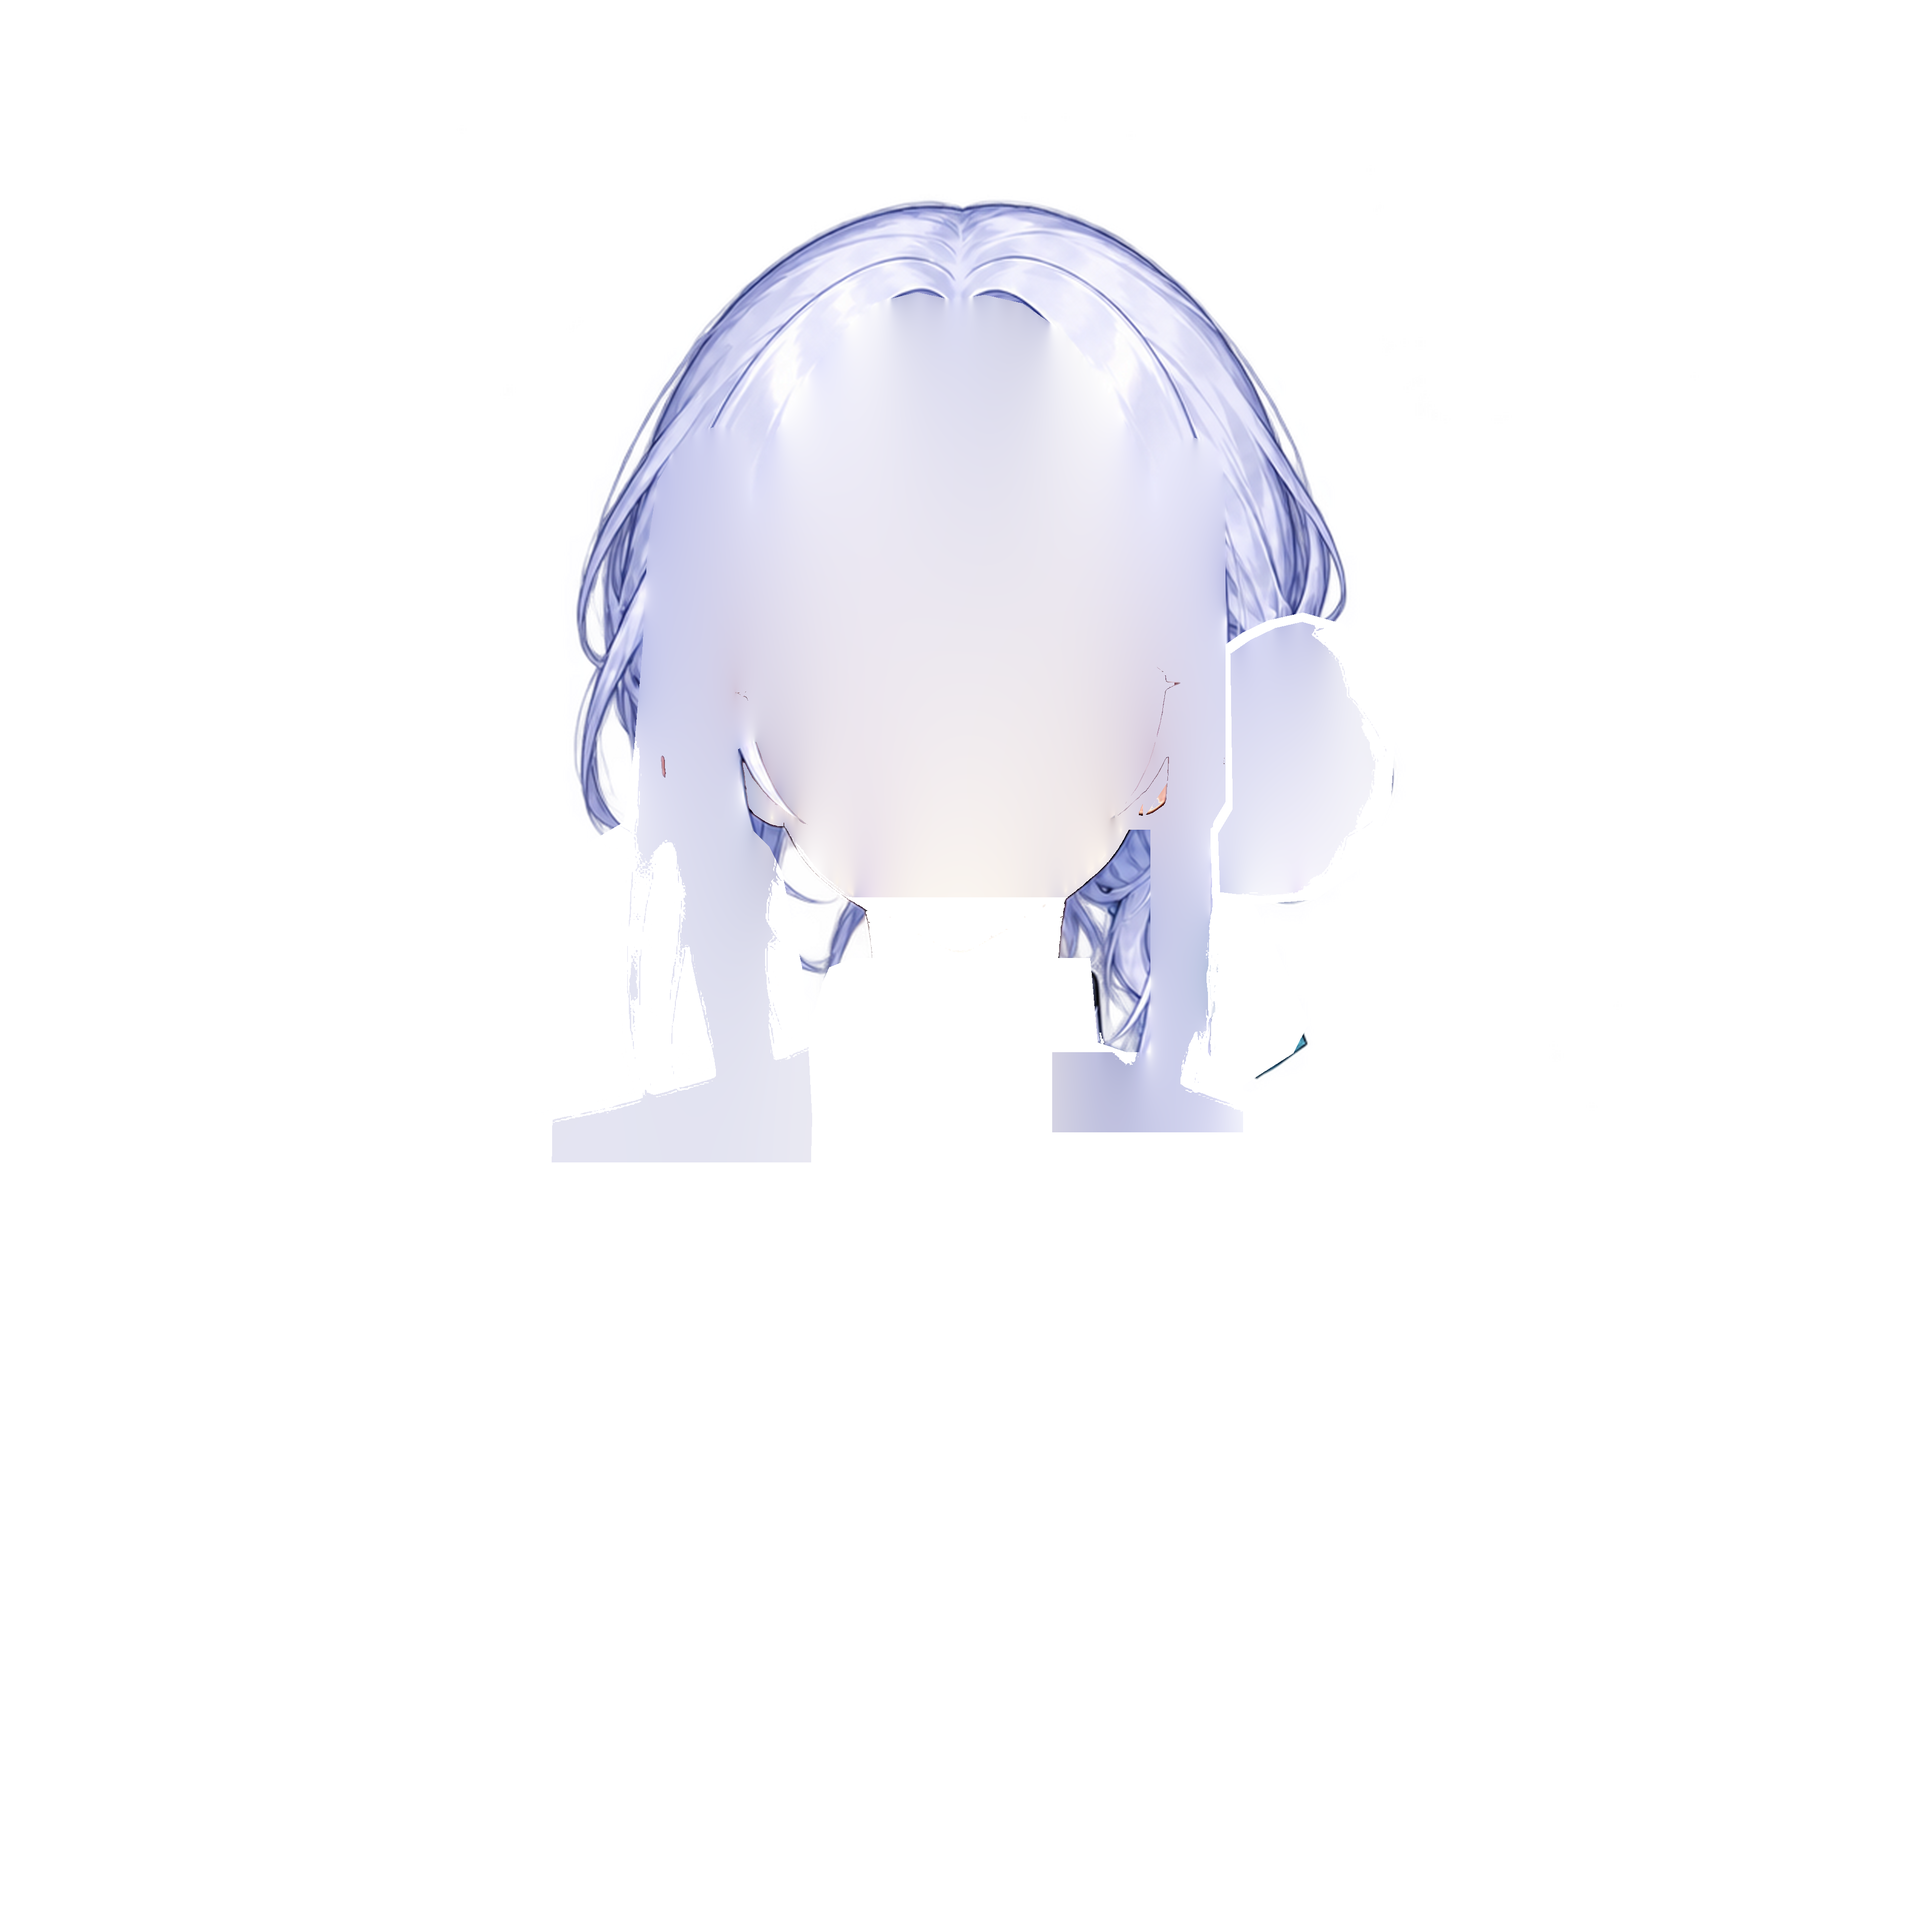
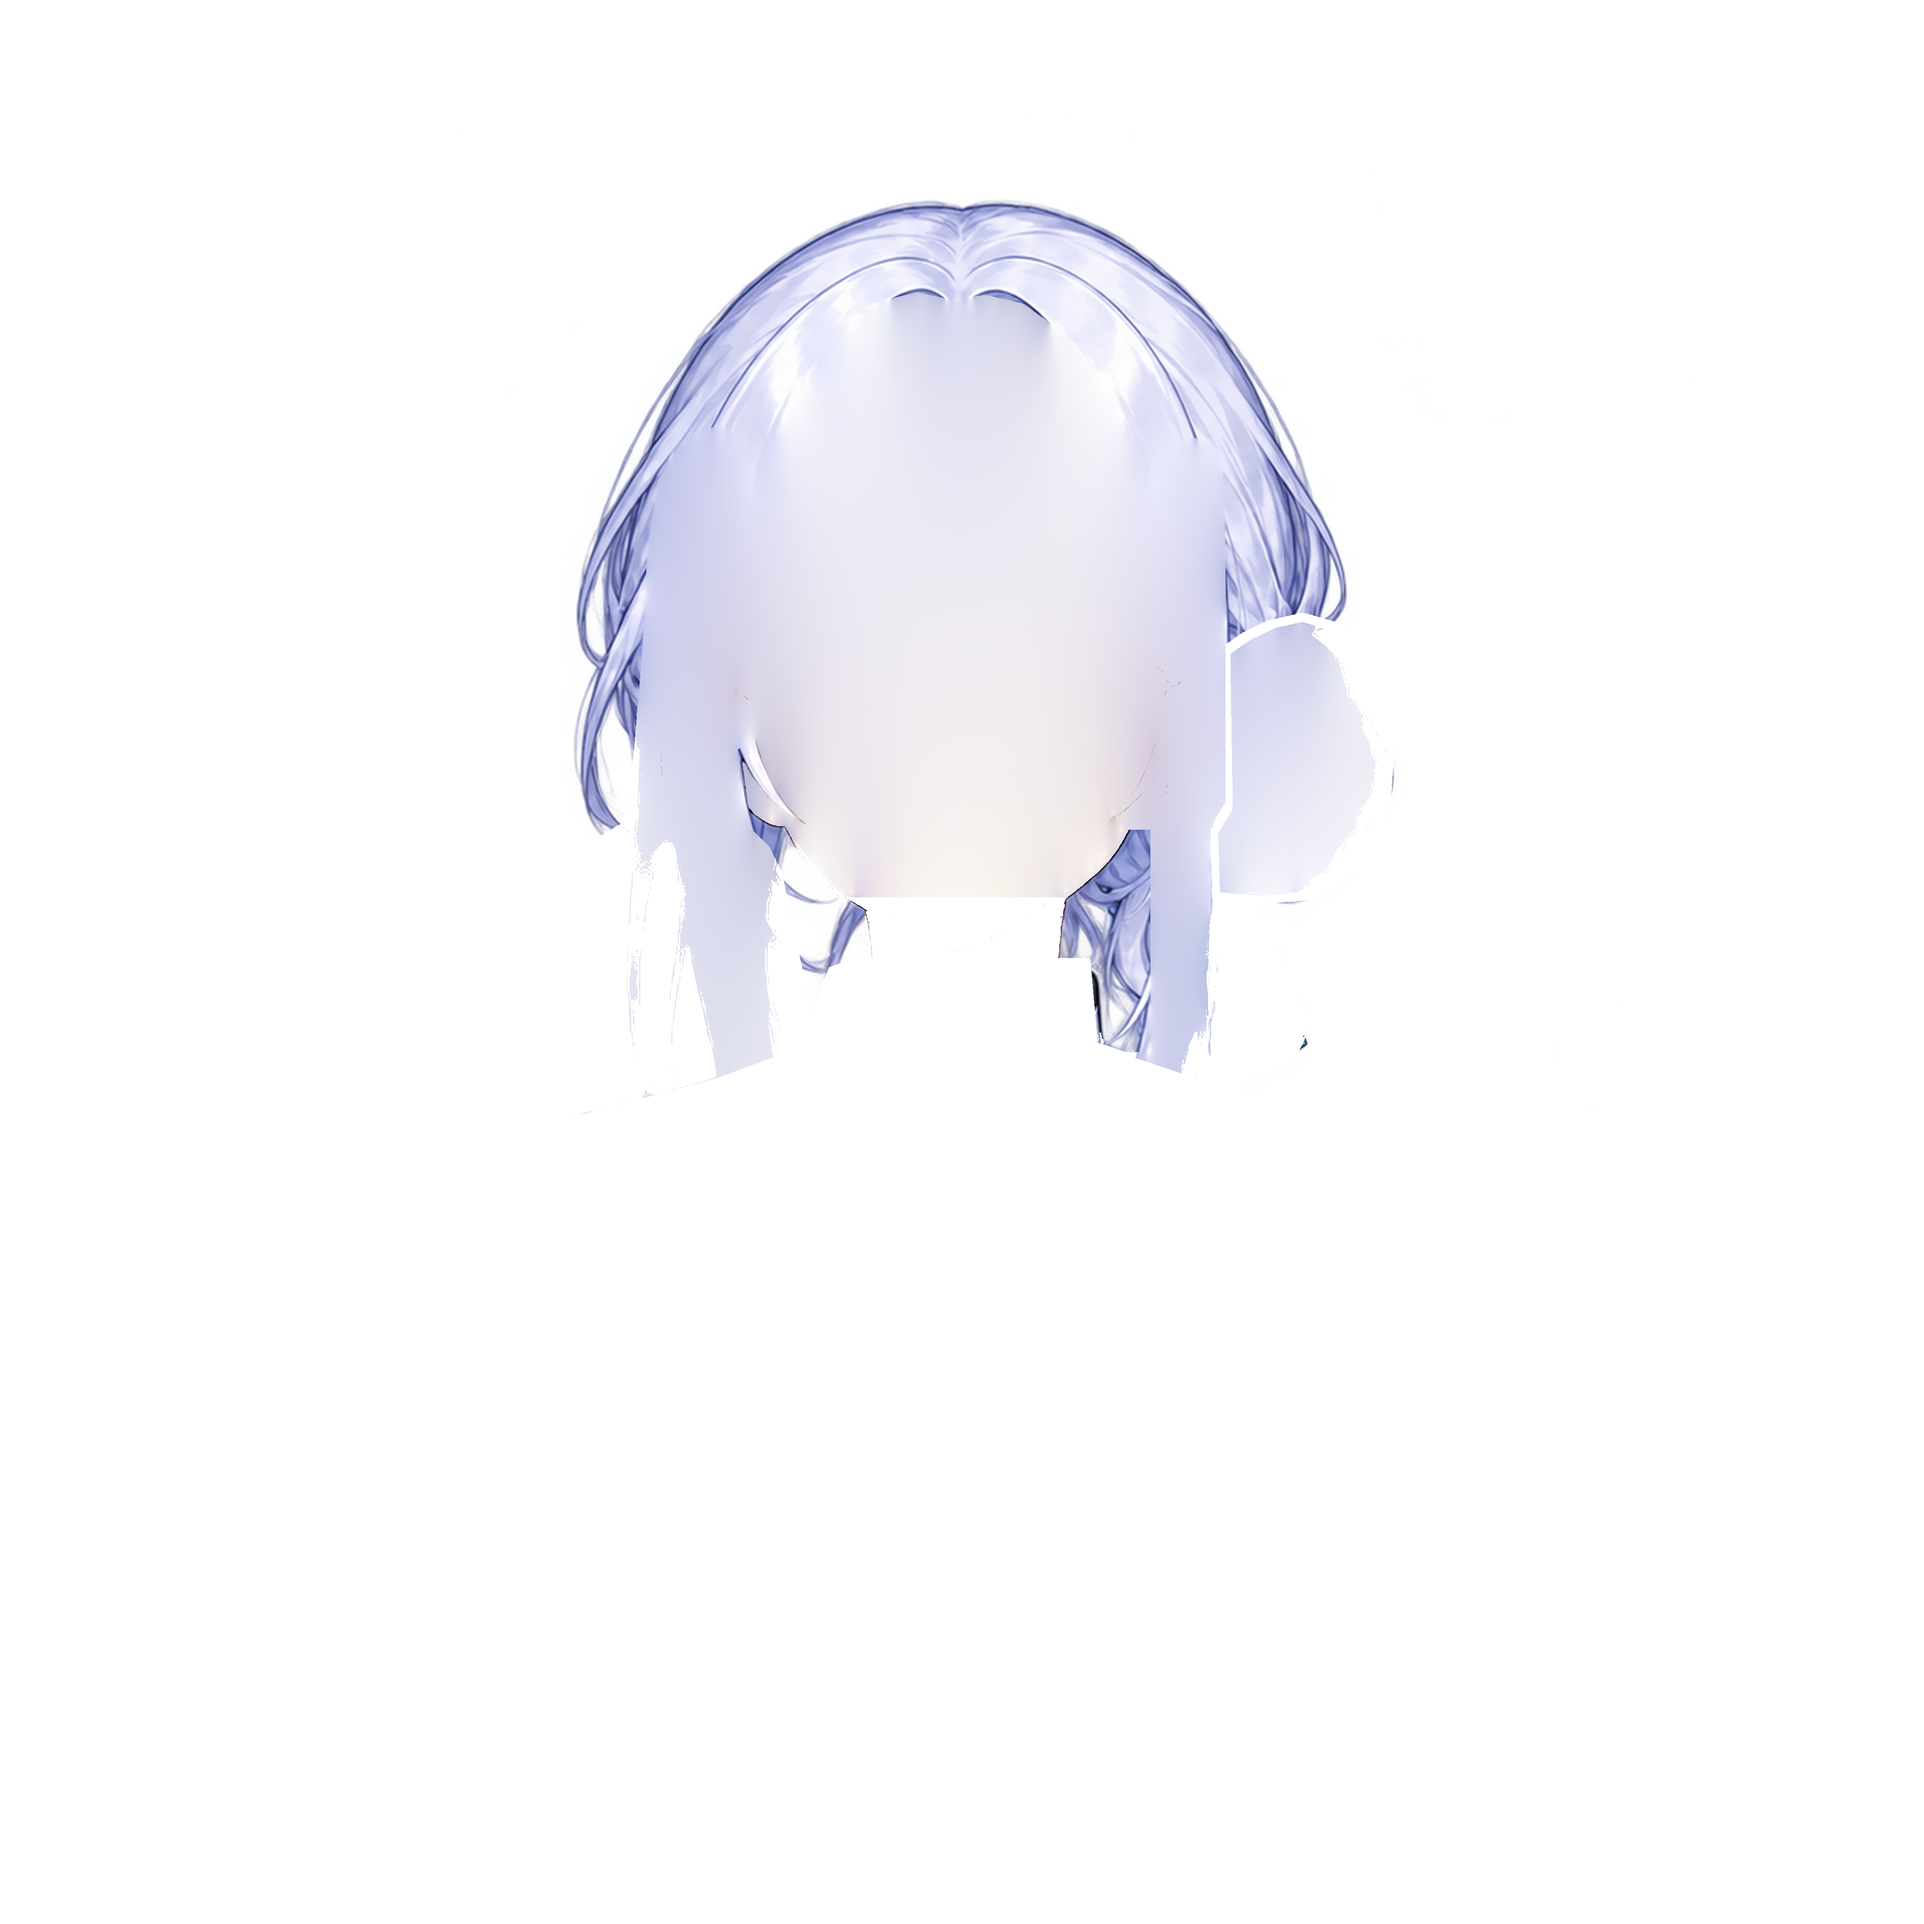
hair_back: pale hair-colour fill, kept out from behind the neck and deep under the collar
The hidden back-hair fill used a saturated blue sampled from strand outlines and extended
under the neck/collar, so it peeked out left of the neck when the head tilted. It is now
filled from light hair pixels only, never behind the neck, and ends 4 px under the body
line. Skin/ribbon flecks that sat in hair_back move to face / ear / ribbon.

Claude-Session: https://claude.ai/code/session_01QimSPG5S4x3kKhsXDjCyw2

Changed region(s): [[0.2812, 0.5312, 0.4062, 0.625], [0.5312, 0.5312, 0.6562, 0.5938]]

diff --git a/tools/step3_parts.py b/tools/step3_parts.py
@@ -249,6 +249,9 @@ yy_ = np.arange(H)[:, None]
 hb_hole = (PM['head_back'] | erode(PM['bun'], 15) | PM['hair_front'] | ((PM['side_r'] & (yy_ < 2320)) | (PM['side_l'] & (yy_ < 2260)))) & ~hb_vis
 hb_hole &= covered_by_upper('hair_back')
 hb_hole &= ~L('neck')                      # never behind the neck: it would peek over the collar on tilt
+# the fill ends a few px under the shoulder/collar line: anything deeper under the body would rotate
+# out above the shoulders when the head tilts
+hb_hole &= ~erode(PM['body_zone'], 4)
 hb_src = hb_vis & (v > 0.8) & (s < 0.2) & (((h >= 200) & (h <= 290)) | (s < 0.06))
 fill_into(layers['hair_back'], hb_hole, hb_src, iters=150, aniso=(1.0, 0.12))
 fills['hair_back'] = hb_hole
@@ -299,7 +302,8 @@ fills['body'] = hole
 # (composited over the body they still reproduce the art exactly)
 bz = PM['body_zone'] & covered_by_upper('body') | PM['body_zone']
 for n in ('hair_side_r', 'hair_side_l'):
-    m = L(n) & PM['body_zone']
+    # only where the uniform underneath is solid (opaque art and opaque body layer)
+    m = L(n) & PM['body_zone'] & (base_alpha >= 250) & (layers['body'][..., 3] >= 250)
     Pp = c[..., :3].astype(np.float64)
     Bg = layers['body'][..., :3].astype(np.float64)
     ys_, xs_ = np.nonzero(m)

diff --git a/tools/step2_partition.py b/tools/step2_partition.py
@@ -241,6 +241,19 @@ claim(PM['ribbon'] & ~(lavender & (s < 0.2) & (v > 0.75)) & ~white, 'hair_ribbon
 claim(PM['bun'], 'hair_bun_l')
 claim(fz & jawmap & (skin | brown), 'face')
 claim(alpha, 'hair_back')
+# stray foreign pixels left in the back hair: ribbon edge (teal) and ear outline (skin/brown)
+hb = lab == ID['hair_back']
+rib = hb & teal & dilate(lab == ID['hair_ribbon_l'], 6)
+lab[rib] = ID['hair_ribbon_l']
+for e in ('ear_r', 'ear_l'):
+    ear = hb & (skin | brown | pinkish) & dilate(lab == ID[e], 6)
+    lab[ear] = ID[e]
+# skin (and its brown outline) seen between strands at the jaw/temple belongs to the face
+yy_ = np.arange(H)[:, None]
+near_face = dilate(PM['face_zone'], 60) | (PM['side_r'] | PM['side_l']); near_face &= (yy_ > 1250) & (yy_ < 1800)
+sk = (lab == ID['hair_back']) & near_face & (skin | brown | (pinkish & (s > 0.15)))
+lab[sk] = ID['face']
+print('hair_back skin -> face:', int(sk.sum()))
 
 Image.fromarray(lab).save(WORK / 'stage/labels.png')
 (WORK / 'stage/labels.json').write_text(json.dumps({'parts': PARTS, 'jaw': jaw.tolist()}, indent=0))
